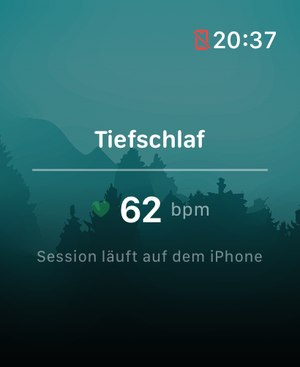
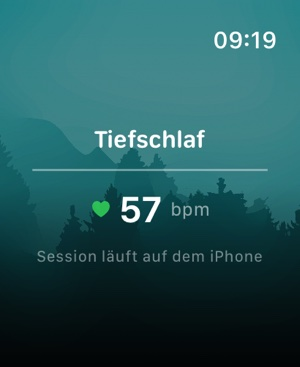
Add files via upload

Changed region(s): [[0.63, 0.0599, 0.93, 0.1499], [0.3, 0.5095, 0.54, 0.6294]]

diff --git a/en/index.html b/en/index.html
@@ -47,7 +47,7 @@
 <link rel="preload" href="../assets/fonts/manrope-var-latin.woff2" as="font" type="font/woff2" crossorigin>
 <link rel="preload" href="../assets/fonts/karla-400-latin.woff2" as="font" type="font/woff2" crossorigin>
 <link rel="stylesheet" href="../assets/css/fonts.css?v=46">
-<link rel="stylesheet" href="../assets/css/styles.css?v=78">
+<link rel="stylesheet" href="../assets/css/styles.css?v=80">
 </head>
 <body data-glow-proto>
 <a class="skip-link" href="#content">Skip to content</a>
@@ -133,7 +133,7 @@
       </div>
       <div class="pulse-composition">
         <div class="device-frame">
-          <picture><source srcset="../assets/img/shot-heartrate.avif" type="image/avif"><img src="../assets/img/shot-heartrate.jpg" alt="Anamovo on iPhone: a running exercise with live heart rate (63 bpm) via Apple Watch." loading="lazy" width="414" height="900"></picture>
+          <picture><source srcset="../assets/img/shot-heartrate.avif?v=2" type="image/avif"><img src="../assets/img/shot-heartrate.jpg?v=2" alt="Anamovo on iPhone: the &quot;Deep Sleep&quot; exercise running with live heart rate (64 bpm) via Apple Watch." loading="lazy" width="414" height="900"></picture>
         </div>
         <div class="pulse-panel" aria-hidden="true">
           <svg viewBox="0 0 400 120" preserveAspectRatio="none">
@@ -165,10 +165,10 @@
           <picture><source srcset="../assets/img/shot-watch-list.avif" type="image/avif"><img src="../assets/img/shot-watch-list.jpg" alt="Anamovo on Apple Watch: list of exercises synced from iPhone." loading="lazy" width="300" height="367"></picture>
         </div>
         <div class="watch-frame">
-          <picture><source srcset="../assets/img/shot-watch-run.avif" type="image/avif"><img src="../assets/img/shot-watch-run.jpg" alt="Anamovo on Apple Watch: a running breathing exercise with ring and live heart rate, independent of iPhone." loading="lazy" width="300" height="367"></picture>
+          <picture><source srcset="../assets/img/shot-watch-run.avif?v=2" type="image/avif"><img src="../assets/img/shot-watch-run.jpg?v=2" alt="Anamovo on Apple Watch: a running breathing exercise with ring and live heart rate, independent of iPhone." loading="lazy" width="300" height="367"></picture>
         </div>
         <div class="watch-frame">
-          <picture><source srcset="../assets/img/shot-watch-companion.avif" type="image/avif"><img src="../assets/img/shot-watch-companion.jpg" alt="Apple Watch as a heart-rate companion display while an exercise runs on iPhone." loading="lazy" width="300" height="367"></picture>
+          <picture><source srcset="../assets/img/shot-watch-companion.avif?v=2" type="image/avif"><img src="../assets/img/shot-watch-companion.jpg?v=2" alt="Apple Watch as a heart-rate companion display while an exercise runs on iPhone." loading="lazy" width="300" height="367"></picture>
         </div>
       </div>
     </div>

diff --git a/index.html b/index.html
@@ -47,7 +47,7 @@
 <link rel="preload" href="assets/fonts/manrope-var-latin.woff2" as="font" type="font/woff2" crossorigin>
 <link rel="preload" href="assets/fonts/karla-400-latin.woff2" as="font" type="font/woff2" crossorigin>
 <link rel="stylesheet" href="assets/css/fonts.css?v=48">
-<link rel="stylesheet" href="assets/css/styles.css?v=78">
+<link rel="stylesheet" href="assets/css/styles.css?v=80">
 </head>
 <body data-glow-proto>
 <a class="skip-link" href="#inhalt">Zum Inhalt springen</a>
@@ -133,7 +133,7 @@
       </div>
       <div class="pulse-composition">
         <div class="device-frame">
-          <picture><source srcset="assets/img/shot-heartrate.avif" type="image/avif"><img src="assets/img/shot-heartrate.jpg" alt="Anamovo auf dem iPhone: laufende Übung mit Live-Herzfrequenz (63 bpm) über Apple Watch." loading="lazy" width="414" height="900"></picture>
+          <picture><source srcset="assets/img/shot-heartrate.avif?v=2" type="image/avif"><img src="assets/img/shot-heartrate.jpg?v=2" alt="Anamovo auf dem iPhone: laufende Übung „Tiefschlaf" mit Live-Herzfrequenz (64 bpm) über Apple Watch." loading="lazy" width="414" height="900"></picture>
         </div>
         <div class="pulse-panel" aria-hidden="true">
           <svg viewBox="0 0 400 120" preserveAspectRatio="none">
@@ -165,10 +165,10 @@
           <picture><source srcset="assets/img/shot-watch-list.avif" type="image/avif"><img src="assets/img/shot-watch-list.jpg" alt="Anamovo auf der Apple Watch: Liste der vom iPhone synchronisierten Übungen." loading="lazy" width="300" height="367"></picture>
         </div>
         <div class="watch-frame">
-          <picture><source srcset="assets/img/shot-watch-run.avif" type="image/avif"><img src="assets/img/shot-watch-run.jpg" alt="Anamovo auf der Apple Watch: laufende Atemübung mit Ring und Live-Herzfrequenz, eigenständig ohne iPhone." loading="lazy" width="300" height="367"></picture>
+          <picture><source srcset="assets/img/shot-watch-run.avif?v=2" type="image/avif"><img src="assets/img/shot-watch-run.jpg?v=2" alt="Anamovo auf der Apple Watch: laufende Atemübung mit Ring und Live-Herzfrequenz, eigenständig ohne iPhone." loading="lazy" width="300" height="367"></picture>
         </div>
         <div class="watch-frame">
-          <picture><source srcset="assets/img/shot-watch-companion.avif" type="image/avif"><img src="assets/img/shot-watch-companion.jpg" alt="Apple Watch als Puls-Begleitanzeige, während eine Übung auf dem iPhone läuft." loading="lazy" width="300" height="367"></picture>
+          <picture><source srcset="assets/img/shot-watch-companion.avif?v=2" type="image/avif"><img src="assets/img/shot-watch-companion.jpg?v=2" alt="Apple Watch als Puls-Begleitanzeige, während eine Übung auf dem iPhone läuft." loading="lazy" width="300" height="367"></picture>
         </div>
       </div>
     </div>

diff --git a/assets/css/styles.css b/assets/css/styles.css
@@ -544,8 +544,8 @@ body[data-dark-proto] .platform-row svg { color: rgba(233, 241, 250, 0.75); }
 /* ---- Watch device frame: rounded-square case, no notch, real screenshots ---- */
 .watch-frame {
   position: relative;
-  width: 148px;
-  border-radius: 42px;
+  width: min(148px, 26vw);
+  border-radius: 28.4% / 23.7%;
   padding: 9px;
   background: linear-gradient(150deg, #1c3634, var(--pine-shadow) 42%, var(--pine-shadow-2));
   box-shadow:
@@ -554,7 +554,7 @@ body[data-dark-proto] .platform-row svg { color: rgba(233, 241, 250, 0.75); }
     inset 0 -2px 4px rgba(0, 0, 0, 0.4);
 }
 .watch-frame img {
-  border-radius: 33px;
+  border-radius: 25.4% / 20.8%;
   display: block;
   width: 100%;
   height: auto;
@@ -565,8 +565,9 @@ body[data-dark-proto] .platform-row svg { color: rgba(233, 241, 250, 0.75); }
   display: flex;
   align-items: flex-end;
   gap: 16px;
+  max-width: 100%;
 }
-.watch-frame-row .watch-frame:nth-child(2) { width: 180px; transform: translateY(-10px); }
+.watch-frame-row .watch-frame:nth-child(2) { width: min(180px, 32vw); transform: translateY(-10px); }
 .watch-frame-caption {
   margin-top: 0.6rem;
   text-align: center;
@@ -904,4 +905,5 @@ body[data-dark-proto] .platform-row svg { color: rgba(233, 241, 250, 0.75); }
 @media (max-width: 560px) {
   .pill-badge { display: none; }
   .platform-row { gap: var(--space-3); }
+  .watch-frame-row { gap: 8px; }
 }

diff --git a/en/404.html b/en/404.html
@@ -14,7 +14,7 @@
 <link rel="preload" href="../assets/fonts/manrope-var-latin.woff2" as="font" type="font/woff2" crossorigin>
 <link rel="preload" href="../assets/fonts/karla-400-latin.woff2" as="font" type="font/woff2" crossorigin>
 <link rel="stylesheet" href="../assets/css/fonts.css?v=33">
-<link rel="stylesheet" href="../assets/css/styles.css?v=78">
+<link rel="stylesheet" href="../assets/css/styles.css?v=80">
 </head>
 <body>
 <a class="skip-link" href="#content">Skip to content</a>

diff --git a/en/imprint.html b/en/imprint.html
@@ -47,7 +47,7 @@
 <link rel="preload" href="../assets/fonts/manrope-var-latin.woff2" as="font" type="font/woff2" crossorigin>
 <link rel="preload" href="../assets/fonts/karla-400-latin.woff2" as="font" type="font/woff2" crossorigin>
 <link rel="stylesheet" href="../assets/css/fonts.css?v=33">
-<link rel="stylesheet" href="../assets/css/styles.css?v=78">
+<link rel="stylesheet" href="../assets/css/styles.css?v=80">
 </head>
 <body>
 <a class="skip-link" href="#content">Skip to content</a>

diff --git a/en/privacy.html b/en/privacy.html
@@ -47,7 +47,7 @@
 <link rel="preload" href="../assets/fonts/manrope-var-latin.woff2" as="font" type="font/woff2" crossorigin>
 <link rel="preload" href="../assets/fonts/karla-400-latin.woff2" as="font" type="font/woff2" crossorigin>
 <link rel="stylesheet" href="../assets/css/fonts.css?v=33">
-<link rel="stylesheet" href="../assets/css/styles.css?v=78">
+<link rel="stylesheet" href="../assets/css/styles.css?v=80">
 </head>
 <body>
 <a class="skip-link" href="#content">Skip to content</a>

diff --git a/en/support.html b/en/support.html
@@ -47,7 +47,7 @@
 <link rel="preload" href="../assets/fonts/manrope-var-latin.woff2" as="font" type="font/woff2" crossorigin>
 <link rel="preload" href="../assets/fonts/karla-400-latin.woff2" as="font" type="font/woff2" crossorigin>
 <link rel="stylesheet" href="../assets/css/fonts.css?v=33">
-<link rel="stylesheet" href="../assets/css/styles.css?v=78">
+<link rel="stylesheet" href="../assets/css/styles.css?v=80">
 </head>
 <body>
 <a class="skip-link" href="#content">Skip to content</a>

diff --git a/404.html b/404.html
@@ -14,7 +14,7 @@
 <link rel="preload" href="assets/fonts/manrope-var-latin.woff2" as="font" type="font/woff2" crossorigin>
 <link rel="preload" href="assets/fonts/karla-400-latin.woff2" as="font" type="font/woff2" crossorigin>
 <link rel="stylesheet" href="assets/css/fonts.css?v=33">
-<link rel="stylesheet" href="assets/css/styles.css?v=78">
+<link rel="stylesheet" href="assets/css/styles.css?v=80">
 </head>
 <body>
 <a class="skip-link" href="#inhalt">Zum Inhalt springen</a>

diff --git a/datenschutz.html b/datenschutz.html
@@ -47,7 +47,7 @@
 <link rel="preload" href="assets/fonts/manrope-var-latin.woff2" as="font" type="font/woff2" crossorigin>
 <link rel="preload" href="assets/fonts/karla-400-latin.woff2" as="font" type="font/woff2" crossorigin>
 <link rel="stylesheet" href="assets/css/fonts.css?v=33">
-<link rel="stylesheet" href="assets/css/styles.css?v=78">
+<link rel="stylesheet" href="assets/css/styles.css?v=80">
 </head>
 <body>
 <a class="skip-link" href="#inhalt">Zum Inhalt springen</a>

diff --git a/impressum.html b/impressum.html
@@ -47,7 +47,7 @@
 <link rel="preload" href="assets/fonts/manrope-var-latin.woff2" as="font" type="font/woff2" crossorigin>
 <link rel="preload" href="assets/fonts/karla-400-latin.woff2" as="font" type="font/woff2" crossorigin>
 <link rel="stylesheet" href="assets/css/fonts.css?v=33">
-<link rel="stylesheet" href="assets/css/styles.css?v=78">
+<link rel="stylesheet" href="assets/css/styles.css?v=80">
 </head>
 <body>
 <a class="skip-link" href="#inhalt">Zum Inhalt springen</a>

diff --git a/support.html b/support.html
@@ -47,7 +47,7 @@
 <link rel="preload" href="assets/fonts/manrope-var-latin.woff2" as="font" type="font/woff2" crossorigin>
 <link rel="preload" href="assets/fonts/karla-400-latin.woff2" as="font" type="font/woff2" crossorigin>
 <link rel="stylesheet" href="assets/css/fonts.css?v=33">
-<link rel="stylesheet" href="assets/css/styles.css?v=78">
+<link rel="stylesheet" href="assets/css/styles.css?v=80">
 </head>
 <body>
 <a class="skip-link" href="#inhalt">Zum Inhalt springen</a>
